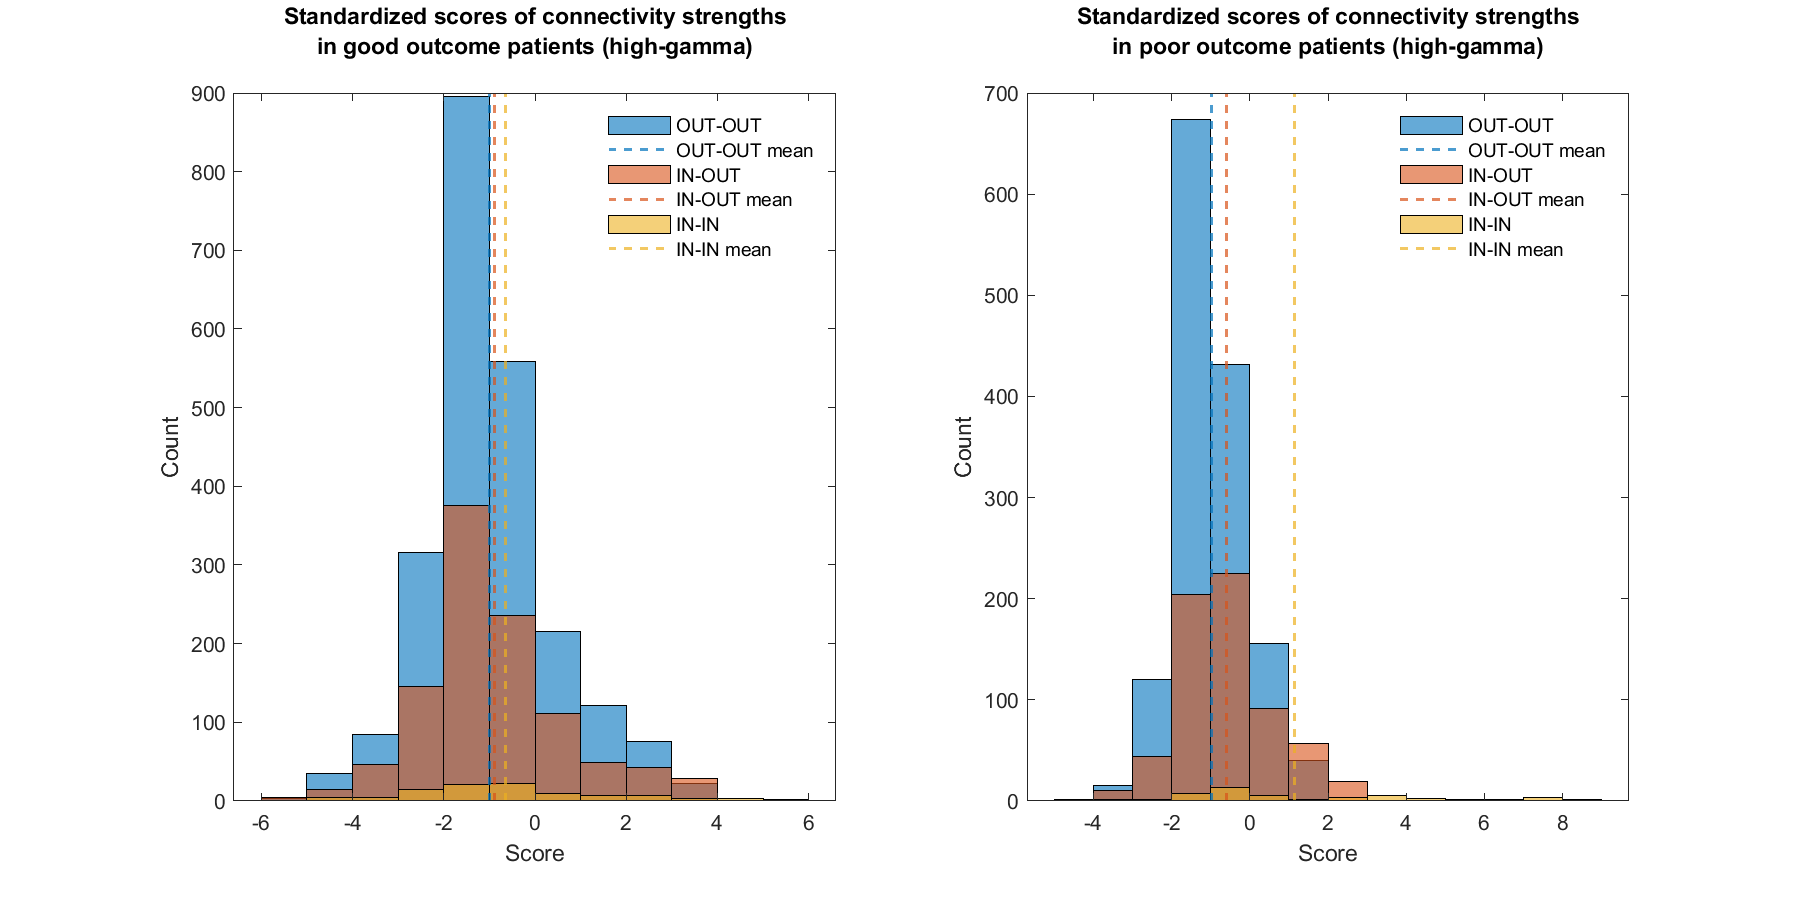
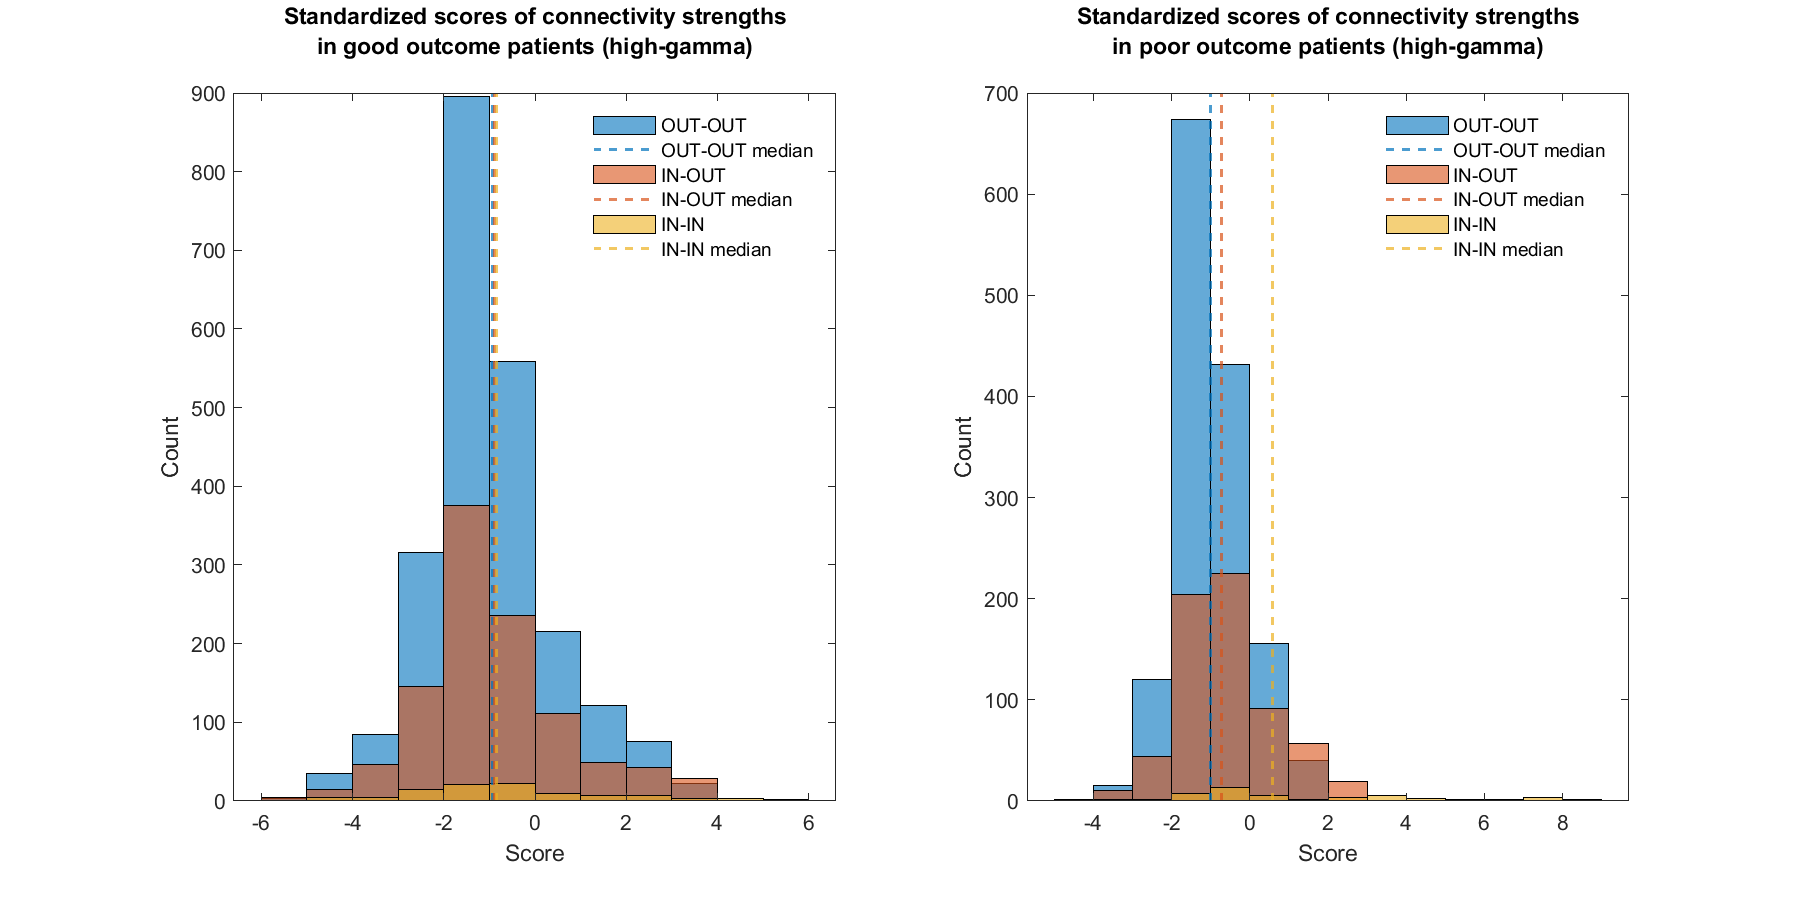
ablation and resection comparison

Changed region(s): [[0.3111, 0.1244, 0.4356, 0.28], [0.7467, 0.1244, 0.9022, 0.28], [0.7467, 0.1867, 0.7778, 0.2178]]

diff --git a/analysis/create_project_figures.m b/analysis/create_project_figures.m
@@ -89,17 +89,20 @@ saveas(fig,save_name) % save plot to output folder
 
 test_threshold = 3;
 
-num_good_patients = sum([hasData_field{:}] & strcmp(outcome_field,'good'));
-num_poor_patients = sum([hasData_field{:}] & strcmp(outcome_field,'poor'));
+num_good_patients = sum([all_patients.hasData] & strcmp({all_patients.outcome},'good'));
+num_poor_patients = sum([all_patients.hasData] & strcmp({all_patients.outcome},'poor'));
 
-good_patient_indices = find([hasData_field{:}] & strcmp(outcome_field,'good'));
-poor_patient_indices = find([hasData_field{:}] & strcmp(outcome_field,'poor'));
+good_patient_indices = find([all_patients.hasData] & strcmp({all_patients.outcome},'good'));
+poor_patient_indices = find([all_patients.hasData] & strcmp({all_patients.outcome},'poor'));
+ablation_indices = find([all_patients.hasData] & strcmp({all_patients.therapy},'Ablation'));
+resection_indices = find([all_patients.hasData] & strcmp({all_patients.therapy},'Resection'));
 
 threshold_results = NaN(num_good_patients,5);
 threshold_accuracies = NaN(num_good_patients,5);
 
 % to hold rank-sum test results
 validation_test_results = cell(5,9);
+abl_res_test_results = cell(12,9);
 
 % to hold logistic regression results
 mnr_results = cell(5,3);
@@ -162,6 +165,8 @@ for test_band = 1:5
     %poor_z_score_mean = mean(cat(3,poor_z_score_results{:}),3,'omitnan');
     %poor_resected_z_score_mean = mean(cat(3,poor_resected_z_score_results{:}),3,'omitnan');
 
+    % plot ALL z-score results for GOOD and POOR outcome patients
+        
     figure
     set(gcf,'Units','inches','Position',[(screen_dims(3)-figure_width)/2, 2, figure_width, 6])
     
@@ -177,8 +182,6 @@ for test_band = 1:5
     titles = {{sprintf('Standardized scores of connectivity strengths\nin good outcome patients (%s)',band_names{test_band}),''}, ...
         {sprintf('Standardized scores of connectivity strengths\nin poor outcome patients (%s)',band_names{test_band}),''}};
     
-    % plot ALL z-score results for GOOD and POOR outcome patients
-    
     for j = 1:length(sub_groups)
         
         subplot(1,2,j)
@@ -187,15 +190,14 @@ for test_band = 1:5
             get_score_data = @(x) x(test_band).data.(edge_groups{k})(triu(true(size(x(test_band).data.(edge_groups{k})))));
             % remove outliers and bottom triangle of data
             plot_data = cellfun(get_score_data,sub_groups{j},'UniformOutput',false);
-            plot_data = cell2mat(plot_data);
-            plot_data = plot_data(:);
-            plot_data = rmoutliers(plot_data(~isnan(plot_data) & ~isinf(plot_data)));
+            plot_data = reshape(cell2mat(plot_data),[],1);
+            plot_data = plot_data(~isnan(plot_data) & ~isinf(plot_data));
 
-            histogram(plot_data,'BinWidth',bin_width);
+            histogram(rmoutliers(plot_data),'BinWidth',bin_width);
             hold on
             
-            % plot mean
-            xline(mean(plot_data),'--','Color',colors{k},'LineWidth',1);
+            % plot median
+            xline(median(plot_data),'--','Color',colors{k},'LineWidth',1);
 
         end
         
@@ -203,7 +205,7 @@ for test_band = 1:5
         ylabel('Count')
         xlabel('Score')
 
-        legend('OUT-OUT','OUT-OUT mean','IN-OUT','IN-OUT mean','IN-IN','IN-IN mean')
+        legend('OUT-OUT','OUT-OUT median','IN-OUT','IN-OUT median','IN-IN','IN-IN median')
         legend('Location','northeast','Box','off')
 
         hold off
@@ -245,6 +247,97 @@ for test_band = 1:5
         [p,h] = ranksum(distribs{1},distribs{2},'Alpha',0.05);
             validation_test_results{test_band,j+(length(sub_groups)*(length(edge_pairs)))} = ...
                 sprintf('%.5f%s',p,char(42*h));
+    end
+    
+    % plot results by therapy and outcome type
+        
+    figure
+    set(gcf,'Units','inches','Position',[(screen_dims(3)-figure_width)/2, 1, figure_width, 8])
+    
+    bin_width = 1;
+    
+    good_a_scores = {all_patients(intersect(good_patient_indices,ablation_indices)).z_scores};
+    poor_a_scores = {all_patients(intersect(poor_patient_indices,ablation_indices)).z_scores};
+    good_r_scores = {all_patients(intersect(good_patient_indices,resection_indices)).z_scores};
+    poor_r_scores = {all_patients(intersect(poor_patient_indices,resection_indices)).z_scores};
+    sub_groups = {good_a_scores, poor_a_scores; good_r_scores, poor_r_scores};
+    
+    edge_groups = {'out_out','in_out','in_in'};
+    edge_pairs = {'out_out','in_in';'out_out','in_out';'in_out','in_in'};
+    colors = {'#0072BD','#D95319','#EDB120'};
+    titles = {{sprintf('Good outcome ablation patients (%s)',band_names{test_band}),''}, ...
+        {sprintf('Poor outcome ablation patients (%s)',band_names{test_band}),''}, ...
+        {sprintf('Good outcome resection patients (%s)',band_names{test_band}),''}, ...
+        {sprintf('Poor outcome resection patients (%s)',band_names{test_band}),''}};
+    
+    for j = 1:length(sub_groups(:))
+        
+        subplot(2,2,j)
+        for k = 1:length(edge_groups)
+
+            get_score_data = @(x) x(test_band).data.(edge_groups{k})(triu(true(size(x(test_band).data.(edge_groups{k})))));
+            % remove outliers and bottom triangle of data
+            plot_data = cellfun(get_score_data,sub_groups{j},'UniformOutput',false);
+            plot_data = reshape(cell2mat(plot_data),[],1);
+            plot_data = plot_data(~isnan(plot_data) & ~isinf(plot_data));
+
+            histogram(rmoutliers(plot_data),'BinWidth',bin_width);
+            hold on
+            
+            % plot mean
+            xline(median(plot_data),'--','Color',colors{k},'LineWidth',1);
+
+        end
+        
+        title(titles{j})
+        ylabel('Count')
+        xlabel('Score')
+
+        legend('OUT-OUT','OUT-OUT median','IN-OUT','IN-OUT median','IN-IN','IN-IN median')
+        legend('Location','northeast','Box','off')
+
+        hold off
+    end
+    
+    save_name = sprintf('output/supplemental_figures/abl_res_histogram_band_%d.png',test_band);
+    saveas(gcf,save_name) % save plot to output folder
+    
+    % Statistical testing on z-score distributions
+    % test edge type distributions within outcome group
+    for row = 1:length(sub_groups)
+        for j = 1:length(sub_groups)
+            for k = 1:length(edge_pairs)
+                edge_pair = edge_pairs(k,:);
+                distribs = cell(1,2);
+                for m = 1:2
+                    get_score_data = @(x) x(test_band).data.(edge_pair{m})(triu(true(size(x(test_band).data.(edge_pair{m})))));
+                    distrib = cellfun(get_score_data,sub_groups{row,j},'UniformOutput',false);
+                    distrib = cell2mat(distrib);
+                    distrib = distrib(:);
+                    distrib = distrib(~isnan(distrib) & ~isinf(distrib));
+                    distribs{m} = distrib;
+                end
+                [p,h] = ranksum(distribs{1},distribs{2},'Alpha',0.05);
+                abl_res_test_results{1+test_band+(row-1)*6,k+((j-1)*(length(edge_pairs)))} = ...
+                    sprintf('%.5f%s',p,char(42*h));
+                %fprintf('Tested band %d, %s and %s. Row = %d, col = %d. Outputted to (%d,%d)\n',test_band,edge_pair{1},edge_pair{2},row,j,1+test_band+(row-1)*6,k+((j-1)*(length(edge_pairs))))
+            end
+        end
+        % test the same edge type distributions between outcome groups
+        for j = 1:length(edge_groups)
+            distribs = cell(1,2);
+            for m = 1:length(sub_groups)
+                get_score_data = @(x) x(test_band).data.(edge_groups{j})(triu(true(size(x(test_band).data.(edge_groups{j})))));
+                distrib = cellfun(get_score_data,sub_groups{row,m},'UniformOutput',false);
+                distrib = cell2mat(distrib);
+                distrib = distrib(:);
+                distrib = distrib(~isnan(distrib) & ~isinf(distrib));
+                distribs{m} = distrib;
+            end
+            [p,h] = ranksum(distribs{1},distribs{2},'Alpha',0.05);
+                abl_res_test_results{1+test_band+(row-1)*6,j+(length(sub_groups)*(length(edge_pairs)))} = ...
+                    sprintf('%.5f%s',p,char(42*h));
+        end
     end
 
     % TODO: logistic regression
@@ -308,6 +401,17 @@ validation_test_result_table = cell2table(validation_test_results, ...
     'IN-IN to IN-IN (between)'},'RowNames',band_names);
 
 writetable(validation_test_result_table,'output/supplemental_figures/validation_test_results.xlsx','WriteRowNames',true)
+
+add_char = @(x) [x,':'];
+
+abl_res_test_result_table = cell2table(abl_res_test_results, ...
+    'VariableNames',{'OUT-OUT to IN-IN (good)', 'OUT-OUT to IN-OUT (good)', ...
+    'IN-OUT to IN-IN (good)','OUT-OUT to IN-IN (poor)','OUT-OUT to IN-OUT (poor)', ...
+    'IN-OUT to IN-IN (poor)', 'OUT-OUT to OUT-OUT (between)', 'IN-OUT to IN-OUT (between)', ...
+    'IN-IN to IN-IN (between)'},'RowNames',[{'Ablation'}, band_names(:)', {'Resection'}, cellfun(add_char,band_names(:)','UniformOutput',false)]);
+
+writetable(validation_test_result_table,'output/supplemental_figures/validation_test_results.xlsx','WriteRowNames',true)
+writetable(abl_res_test_result_table,'output/supplemental_figures/abl_res_test_results.xlsx','WriteRowNames',true)
 
 fprintf('Statistical test results saved.\n')
 
